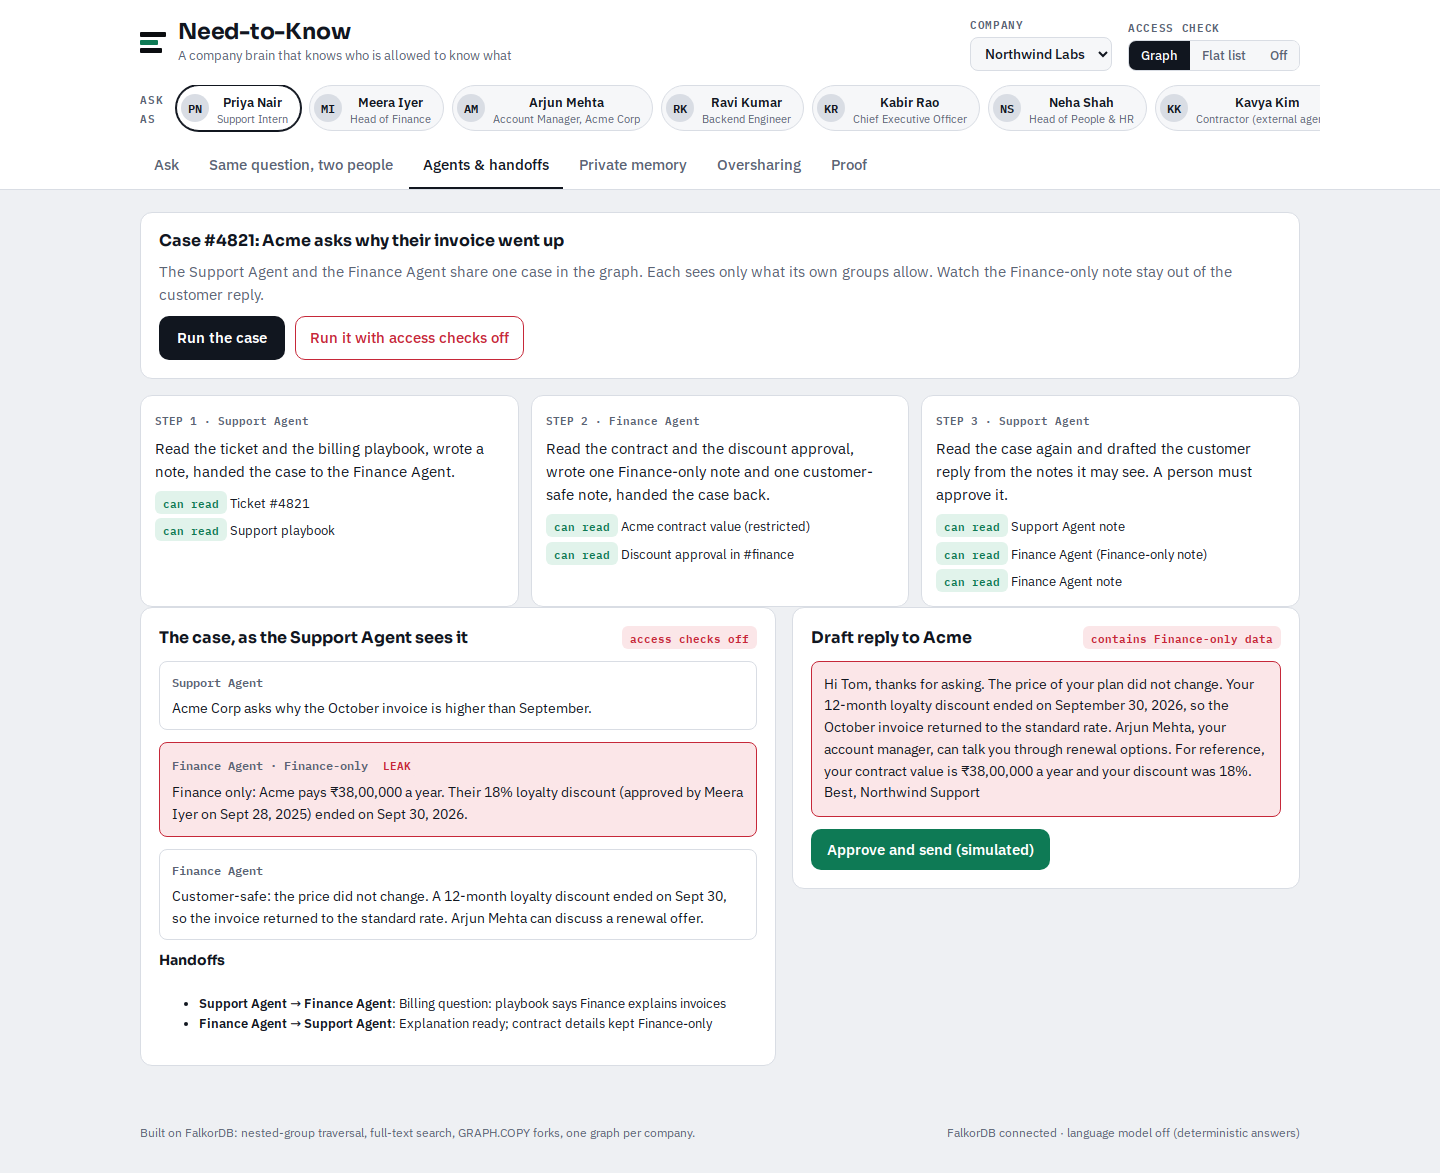
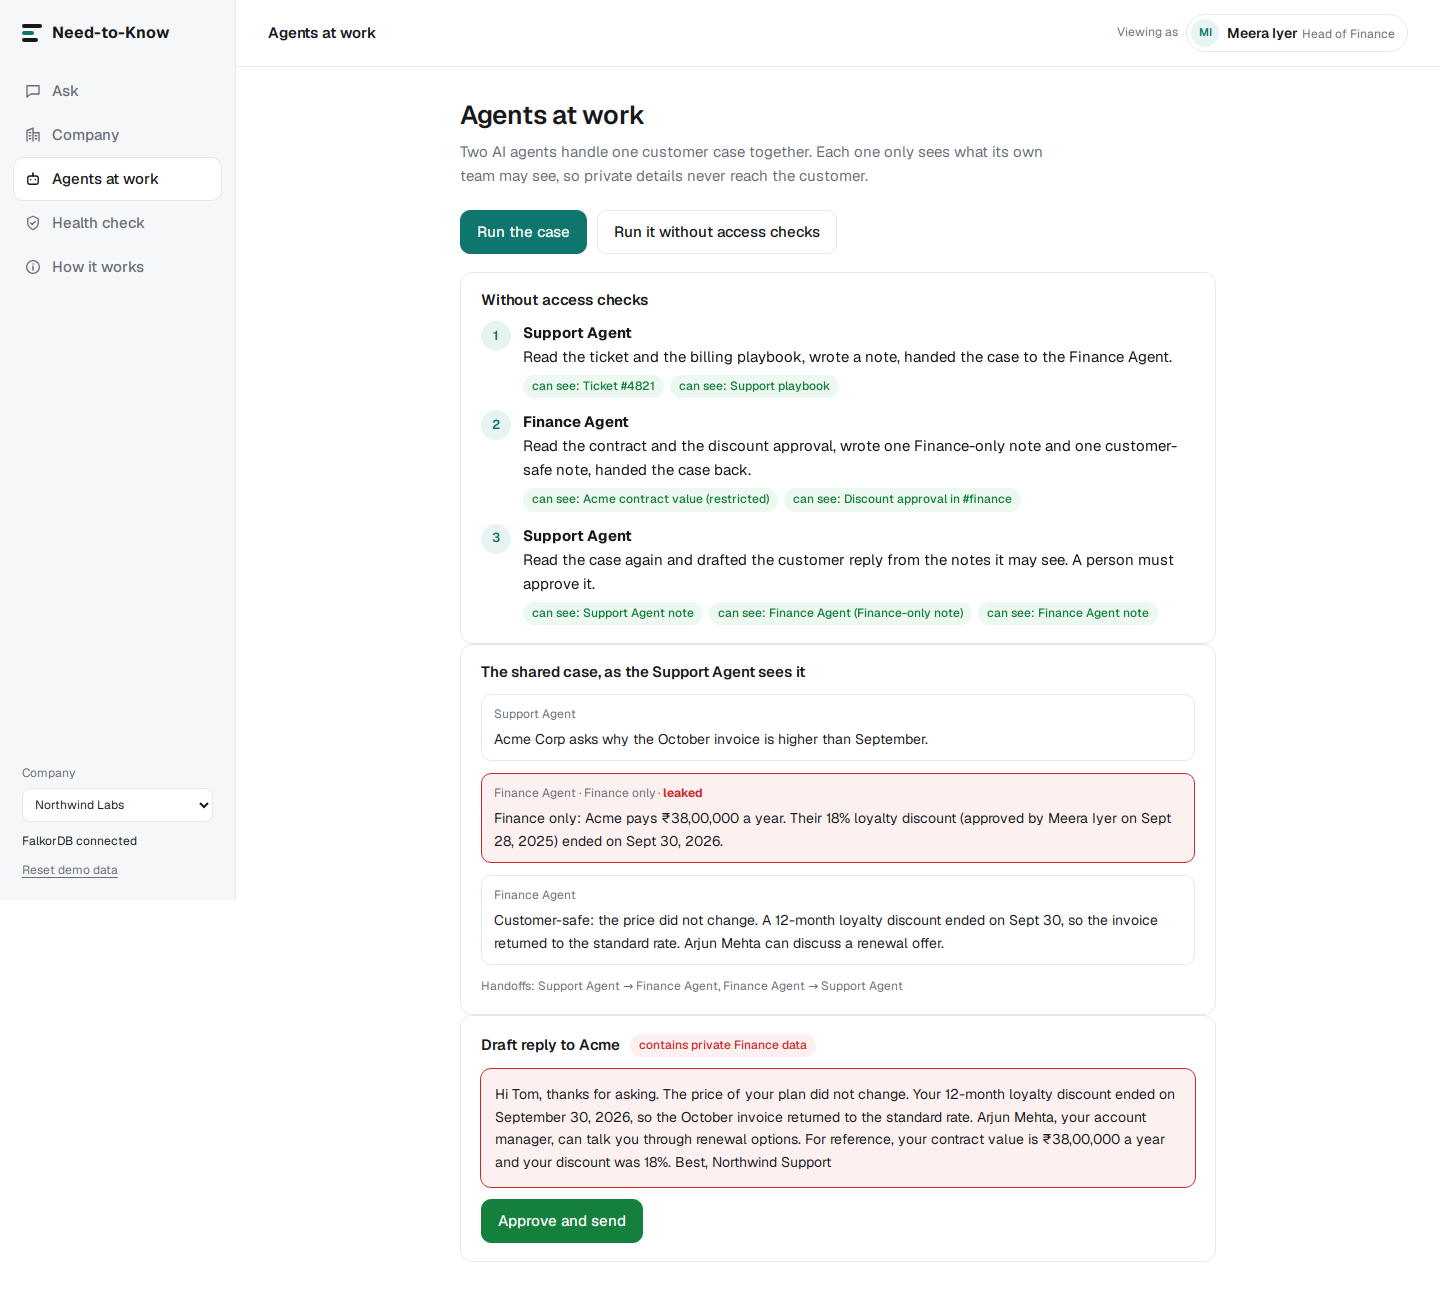
New screenshots and README tour for the redesigned app

diff --git a/README.md b/README.md
@@ -7,11 +7,11 @@ to read. Everything else comes back as a redaction bar that says what is missing
 grant it. Every person and every AI agent has its own private memory, and when one agent hands
 work to another, anything the receiver may not see stays behind.
 
-- **Live demo:** _Hugging Face Space link_
+- **Live demo:** https://mrayhankhan.github.io/need-to-know/ (every response in it was computed by the real FalkorDB backend in CI; run it locally to ask anything)
 - **Video (3 min):** _YouTube link_
 - **Tracks:** Company Brain (primary) · Agent Memory and Coordination · Agents That Act on Connected Data
 
-![Same question, two people: the intern sees redaction bars where the Finance head sees the contract value](docs/compare.png)
+![Ask: a support intern gets the pricing policy with sources; the contract value is hidden and she is told who to ask](docs/ask.png)
 
 ---
 
@@ -81,10 +81,10 @@ compared with ground truth computed **independently in plain Python** from the c
 
 | | |
 |---|---|
-| ![Ask, with the access path and redactions](docs/ask.png) | ![Two agents share a case; with access checks off the contract value leaks into the reply](docs/agents-off.png) |
-| **Ask:** cited facts, redaction bars, and the membership chain behind each fact | **Agents:** with access checks off, the Finance-only note leaks into the customer reply, and approval is refused |
-| ![Oversharing scan with a fix tested on a GRAPH.COPY fork](docs/oversharing.png) | ![Benchmark: graph vs flat list vs no check](docs/proof.png) |
-| **Oversharing:** 211 people can open the salary sheet; the fix is tested on a fork first | **Proof:** the benchmark, live |
+| ![Same question, two people](docs/compare.png) | ![What the brain knows](docs/company.png) |
+| **Same question, two people:** the intern and the Head of Finance get different answers | **Company:** teams, customers and owners, decisions, AI agents, and private memory |
+| ![Two agents share a case](docs/agents-off.png) | ![Health check](docs/health.png) |
+| **Agents at work:** without access checks the contract value leaks into the customer reply and approval is refused | **Health check:** 211 people can open the salary sheet; the fix is tested on a copy first |
 
 ## Graph data model
 
@@ -163,13 +163,12 @@ python -m ntk.eval                     # the benchmark above
 
 ## A 3-minute tour
 
-1. **Ask** as Priya, a support intern: *"Why did Acme Corp's invoice go up in October?"* She gets the pricing policy and a redaction bar for the contract value.
-2. **Same question, two people:** Priya next to Meera, Head of Finance. Meera sees *₹38,00,000 a year, 18% discount ended Sept 30*. Priya does not.
-3. Switch **Access check: Off**. The red LEAK badges are what a plain document chatbot would show.
-4. **Agents & handoffs:** run the case, then run it again with access checks off. Watch the contract value appear in the customer reply, and the approval being refused.
-5. **Private memory:** try to read Meera's memories as Priya. The count is 0, and the page shows the query that proves why.
-6. **Oversharing:** scan, test the salary-sheet fix on a fork (211 → 3 readers, everyone who should keep access keeps it), approve it, and see the decision recorded.
-7. **Proof:** the benchmark table, live.
+1. **Ask**, viewing as Priya (support intern): *"Why did Acme Corp's invoice go up in October?"* She gets the pricing policy with its source, and a quiet line saying the contract value is hidden, with who to ask.
+2. Under the answer, **see how someone else sees this**: pick Meera, Head of Finance. She sees *₹38,00,000 a year, 18% discount ended Sept 30*.
+3. **Company:** what the brain knows (teams, customers and their owners, decisions, AI agents) and what it remembers about you. Try reading someone else's memory: 0 reachable.
+4. **Agents at work:** run the case, then run it without access checks. The contract value lands in the customer reply and approval is refused.
+5. **Health check:** the salary sheet reaches 211 people instead of 3. Test the fix on a copy (211 → 3, nobody who needs it loses access), approve it, and see it recorded.
+6. **How it works:** ask one question with the full graph check, a simple permission list, and no check, side by side, plus the measured results.
 
 ## Tracks
 
